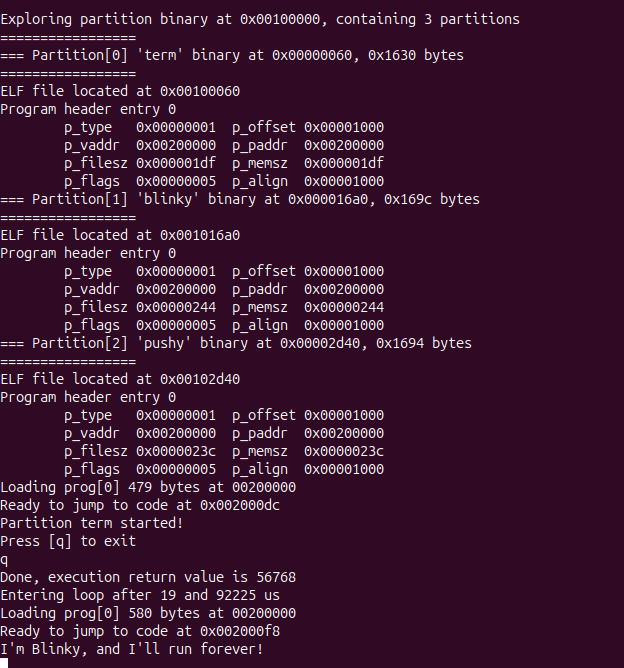
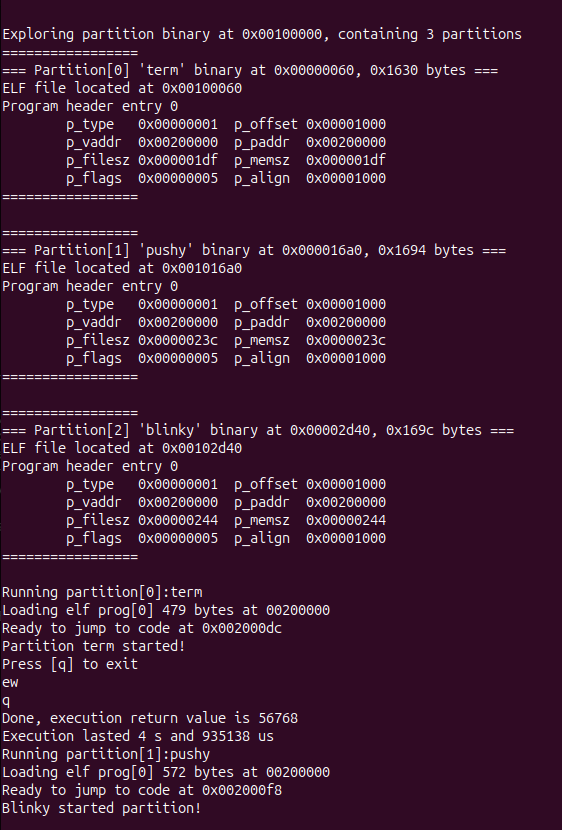
Clearer main

Changed region(s): [[0.0, 0.0, 0.9377, 1.0]]

diff --git a/Hype/kernel/boot/src/main.c b/Hype/kernel/boot/src/main.c
@@ -139,7 +139,7 @@ void * load_elf(const struct elf_header *elf){
             const uint8_t *code_src = (const uint8_t *) ((unsigned int) elf + pheaders[i].p_offset);
             uint8_t *code_dst       = (uint8_t *) (pheaders[i].p_paddr);
 
-            _kprintf("Loading prog[%d] %d bytes at %p\n\r", i, pheaders[i].p_filesz, code_dst);
+            _kprintf("Loading elf prog[%d] %d bytes at %p\n\r", i, pheaders[i].p_filesz, code_dst);
 
             for(int byte = 0; byte < pheaders[i].p_filesz; byte++){
                 code_dst[byte] = code_src[byte];
@@ -189,15 +189,16 @@ int main(){
 
     struct partition_header *p_header = (struct partition_header *) 0x100000; 
 
-    _kprintf("Exploring partition binary at 0x%p, containing %i partitions\n\r=================\n\r",
+    _kprintf("Exploring partition binary at 0x%p, containing %i partitions\n\r",
              p_header, p_header->n_entries);
 
     for(int i = 0; i < p_header->n_entries; i++){
         const char *name = (const char *) ((unsigned int) p_header + p_header->entries[i].name_offset);
-        _kprintf("=== Partition[%d] '%s' binary at 0x%p, 0x%x bytes \n\r=================\n\r",
+        _kprintf("=================\n\r=== Partition[%d] '%s' binary at 0x%p, 0x%x bytes ===\n\r",
                  i, name, p_header->entries[i].elf_offset, p_header->entries[i].elf_size);
         const struct elf_header *elf_header = (const struct elf_header *)((unsigned int) p_header + p_header->entries[i].elf_offset);
         print_elf_header(elf_header, 1);
+        _kprintf("=================\n\r\n\r");
     }
 
 
@@ -213,9 +214,11 @@ int main(){
 
 
         const struct elf_header * elf_header = (const struct elf_header *)((unsigned int) p_header + p_header->entries[i].elf_offset);
+        const char *name = (const char *) ((unsigned int) p_header + p_header->entries[i].name_offset);
 
         __time_get(&t_start.sec, &t_start.micro_sec);
-
+        
+        _kprintf("Running partition[%i]:%s\n\r", i, name);
         entrypoint = load_elf(elf_header);
         _kprintf("Ready to jump to code at 0x%p\n\r", entrypoint);
     
@@ -232,7 +235,7 @@ int main(){
         t_diff.micro_sec = t_end.micro_sec - t_start.micro_sec;
     
         _kprintf("Done, execution return value is %d\n\r", retval);
-        _kprintf("Entering loop after %d and %d us\n\r", t_diff.sec, t_diff.micro_sec);
+        _kprintf("Execution lasted %d s and %d us\n\r", t_diff.sec, t_diff.micro_sec);
     }
 
     return 0;
